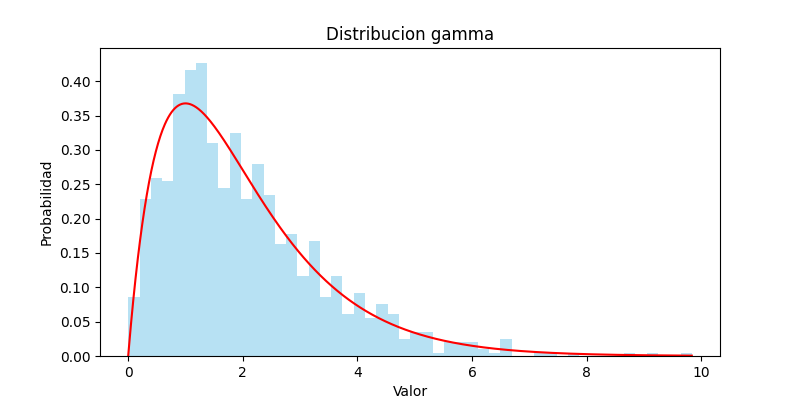
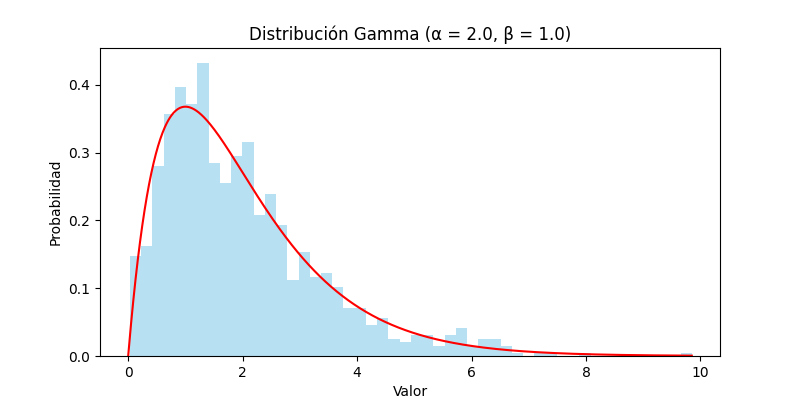
Creo que ya esta terminado

diff --git a/tps/2.2/tp2_2.py b/tps/2.2/tp2_2.py
@@ -3,17 +3,19 @@ import numpy as np
 import scipy.stats as ss
 
 
-
+#DISTRIBUCIONES CONTINUAS
 # Generar numeros pseudoaleatorios con distribucion de probabilidad uniforme
-num_uniformes = np.random.uniform(0,1,1000) #Genera 1000 valores pseudoaleatorios con distribucion uniforme entre 0 y 1
+valor_inicial = 0
+valor_final = 1
+num_uniformes = np.random.uniform(valor_inicial,valor_final,1000) #Genera 1000 valores pseudoaleatorios con distribucion uniforme entre 0 y 1
 #Graficar valores uniformes
 plt.figure(figsize=(8, 4))
 plt.hist(num_uniformes, bins=50, density=True, alpha=0.6, color='skyblue', edgecolor='black', label='Datos simulados')
 # Calculo de probabilidad teorica
 valores_referencia_x = np.linspace(0, 1, 100) # Crea 100 numeros equiespaciados entre 0 y 1
-valores_referencia_y = [1 / (1- 0)] * 100 # Calculado con la funcion de densidad de probabilidad
+valores_referencia_y = [valor_final / (valor_final - valor_inicial)] * 100 # Calculado con la funcion de densidad de probabilidad
 plt.plot(valores_referencia_x, valores_referencia_y, 'r--', linewidth=2, label='Probabilidad teórica')
-plt.title('Distribucion uniforme')
+plt.title(f'Distribución Uniforme continua\n[a={0}, b={1}]')
 plt.xlabel('Valor')
 plt.ylabel('Probabilidad')
 plt.savefig('Grafica_Uniforme.png') 
@@ -26,16 +28,17 @@ plt.show()
 
 
 # Generar numeros pseudoaleatorios con distribucion de probabilidad exponencial (Usando transformada inversa)
+lambd = 1.5 # Valor de LAMBDA
 num_uniformes_para_exponencial = np.random.uniform(0,1,1000) # num_uniformes_para_exponencial ~ U(0,1)
-num_exponenciales = -np.log(1 - num_uniformes_para_exponencial) / 1.5 # 1.5 es el valor de LAMBDA, λ = 1.5
+num_exponenciales = -np.log(1 - num_uniformes_para_exponencial) / lambd # 1.5 es el valor de LAMBDA, λ = 1.5
 # Graficar valores exponenciales
 plt.figure(figsize=(8, 4))
 plt.hist(num_exponenciales, bins=50, density=True, alpha=0.6, color='skyblue', label='Datos simulados')
 # Calculo de probabilidad teorica
 valores_referencia_x = np.linspace(0, np.max(num_exponenciales), 1000) # Crea 1000 numeros equiespaciados entre 0 y el maximo de la exponencial
-valores_referencia_y = 1.5 * np.exp(-1.5 * valores_referencia_x) # 1.5 es el valor de LAMBDA, esto se calcula con la funcion de densidad de probabilidad
+valores_referencia_y = lambd * np.exp(-lambd * valores_referencia_x) # 1.5 es el valor de LAMBDA, esto se calcula con la funcion de densidad de probabilidad
 plt.plot(valores_referencia_x, valores_referencia_y, 'r-', label='Probabilidad teorica')
-plt.title('Distribucion exponencial')
+plt.title('Distribución Exponencial (λ = {})'.format(lambd))
 plt.xlabel('Valor')
 plt.ylabel('Probabilidad')
 plt.savefig('Grafica_Exponencial.png') 
@@ -57,7 +60,7 @@ plt.hist(num_gamma, bins=50, density=True, alpha=0.6, color='skyblue', label='Da
 valores_referencia_x = np.linspace(0, np.max(num_gamma), 1000) # Crea 1000 numeros equiespaciados entre 0 y el maximo de los valors con distrubuccion gamma generados
 valores_referencia_y = ss.gamma.pdf(valores_referencia_x, a=alpha, scale=beta) # Usamos una funcion de la libreria scipy.stats para calcular los valores de y con la funcion de de densidad de probabilidad
 plt.plot(valores_referencia_x, valores_referencia_y , 'r-', label='Probabilidad teorica')
-plt.title('Distribucion gamma')
+plt.title(f'Distribución Gamma (α = {alpha}, β = {beta})')
 plt.xlabel('Valor')
 plt.ylabel('Probabilidad')
 plt.savefig('Grafica_Gamma.png') 
@@ -78,7 +81,7 @@ plt.hist(num_normal, bins=50, density=True, alpha=0.6, color='skyblue', label='D
 valores_referencia_x = np.linspace(mu - 4*sigma, mu + 4*sigma, 1000)  # esto genera 1000 puntos equiespaciados entre mu - 4sigma y mu + 4sigma ya que la mayor parte de la masa de una distribucion normal esta contenida dentro de ese intervalo
 valores_referencia_y = ss.norm.pdf(valores_referencia_x, loc=mu, scale=sigma) # Calculamos los valores de Y usando la libreria scipy stats, esta usa la funcion de densidad de probabilidad
 plt.plot(valores_referencia_x, valores_referencia_y, 'r-', label='Probabilidad Teorica')
-plt.title('Distribucion normal')
+plt.title(f'Distribución Normal (μ = {mu}, σ = {sigma})')
 plt.xlabel('Valor')
 plt.ylabel('Probabilidad')
 plt.savefig('Grafica_Normal.png') 
@@ -88,7 +91,7 @@ plt.tight_layout()
 plt.show()
 
 
-
+# DISTRIBUCIONES DISCRETAS
 # Generar numeros con distribucion de probabilidad pascal (binomial negativa)
 exitos_deseados = 5       # número de éxitos deseados
 probabilidad_exito = 0.3     # probabilidad de éxito
@@ -102,7 +105,7 @@ plt.bar(valores, prob_empirica, width=0.8, alpha=0.6, label="Datos simulados", c
 valores_referencia_x = np.arange(0, max(num_pascal)+1) # Genera los valores que tomo la variable en el grafico de barras en el eje X
 valores_referencia_y = ss.nbinom.pmf(valores_referencia_x, exitos_deseados, probabilidad_exito) # Usanso SS calculamos los valores de Y usando la funcion de densidad de probabilidad
 plt.plot(valores_referencia_x, valores_referencia_y, 'ro', label="Probabilidad Teorica")
-plt.title('Distribucion pascal')
+plt.title(f'Distribución Pascal (r = {exitos_deseados}, p = {probabilidad_exito})')
 plt.xlabel('Valor')
 plt.ylabel('Probabilidad')
 plt.savefig('Grafica_Pascal.png') 
@@ -117,18 +120,95 @@ num_ensayos = 10   # número de ensayos
 prob_exito = 0.4         # probabilidad de éxito
 num_binomial = np.random.binomial(num_ensayos, prob_exito, size=1000) # Genera 1000 valores con distribucion de probabilidad binomial
 # Representacion grafica de los datos
-valores, veces_que_salen = np.unique(num_binomial, return_counts=True) # Esto es para trabajar con datos discretos (ya que la binomial al igual que la pascal trabajan con datos discretos), busca los valores unicos en el array num_pascal y cuenta cuantas veces aparece cada uno, guarda ambos.
+valores, veces_que_salen = np.unique(num_binomial, return_counts=True) # Esto es para trabajar con datos discretos (ya que la binomial al igual que la pascal trabajan con datos discretos), busca los valores unicos en el array num_binomial y cuenta cuantas veces aparece cada uno, guarda ambos.
 prob_empirica = veces_que_salen / 1000  # Esto normaliza los conteos para convertirlos en una probabilidad empirica (lo divide por n muestras)
 plt.figure(figsize=(8, 4))
 plt.bar(valores, prob_empirica, width=0.8, alpha=0.6, label="Datos simulados", color='skyblue')
 # Calculo de probabilidad teorica
 valores_referencia_x = np.arange(0, num_ensayos + 1) # Genera los valores que tomo la variable en el grafico de barras en el eje X
-valores_referencia_y = ss.binom.pmf(valores_referencia_x, num_ensayos, prob_exito) # Usanso SS calculamos los valores de Y usando la funcion de densidad de probabilidad
+valores_referencia_y = ss.binom.pmf(valores_referencia_x, num_ensayos, prob_exito) # Usando SS calculamos los valores de Y usando la funcion de densidad de probabilidad
 plt.plot(valores_referencia_x, valores_referencia_y, 'ro', label="Probabilidad teorica")
-plt.title('Distribucion Binomial')
+plt.title(f'Distribución Binomial (n = {num_ensayos}, p = {prob_exito})')
 plt.xlabel('Valor')
 plt.ylabel('Probabilidad')
 plt.savefig('Grafica_Binomial.png') 
+plt.legend()
+plt.grid(True)
+plt.tight_layout()
+plt.show()
+
+
+
+
+# Generar numeros con distribucion de probabilidad hipergeometrica
+tam_total = 50      # tamaño total de la población
+num_exitos = 15      # número de éxitos en la población
+num_extracciones = 10      # número de extracciones
+num_hipergeometrico = np.random.hypergeometric(ngood=num_exitos, nbad=tam_total-num_exitos, nsample=num_extracciones, size=1000) # Genera 1000 valores con distribucion de probabilidad hipergeometrica
+# Representacion grafica
+valores, veces_que_salen = np.unique(num_hipergeometrico, return_counts=True) # Esto es para trabajar con datos discretos (ya que la hipergeometrica es discreta), busca los valores unicos en el array num_hipergeometrico y cuenta cuantas veces aparece cada uno, guarda ambos.
+prob_empirica = veces_que_salen / 1000 # Esto normaliza los conteos para convertirlos en una probabilidad empirica (lo divide por n muestras)
+plt.figure(figsize=(8, 4))
+plt.bar(valores, prob_empirica, width=0.8, alpha=0.6, label="Datos simulados", color='skyblue')
+# Calculo de probabilidad teorica
+valores_referencia_x = np.arange(0, num_extracciones+1) # Genera los valores que tomo la variable en el grafico de barras en el eje X
+valores_referencia_y = ss.hypergeom.pmf(valores_referencia_x, tam_total, num_exitos, num_extracciones) #Usando SS calculamos los valores de Y usando la funcion de densidad de probabilidad
+plt.plot(valores_referencia_x, valores_referencia_y, 'ro', label='Probabilidad Teorica')
+plt.title(f'Distribución Hipergeométrica (N={tam_total}, K={num_exitos}, n={num_extracciones})')
+plt.xlabel('Valor')
+plt.ylabel('Probabilidad')
+plt.savefig('Grafica_Hipergeometrica.png') 
+plt.legend()
+plt.grid(True)
+plt.tight_layout()
+plt.show()
+
+
+
+# Generar numeros con distribucion de probabilidad Poisson
+lambd = 4 # Tasa de eventos, valor de LAMBDA
+num_poisson = np.random.poisson(lam=lambd, size=1000) # Genera 1000 valores con distribucion de poisson
+# Representacion grafica
+valores, veces_que_salen = np.unique(num_poisson, return_counts=True) # Esto es para trabajar con datos discretos (ya que la Poisson es discreta), busca los valores unicos en el array num_poisson y cuenta cuantas veces aparece cada uno, guarda ambos.
+prob_empirica = veces_que_salen / 1000
+plt.figure(figsize=(8, 4))
+plt.bar(valores, prob_empirica, width=0.8, alpha=0.6, label='Datos simulados', color='skyblue')
+# Calculo de probabilidad teorica
+valores_referencia_x = np.arange(0, max(num_poisson)+1) # Genera los valores que tomo la variable en el grafico de barras en el eje X
+valores_referencia_y = ss.poisson.pmf(valores_referencia_x, mu=lambd) #Usando SS calculamos los valores de Y usando la funcion de densidad de probabilidad
+plt.plot(valores_referencia_x, valores_referencia_y, 'ro', label='PMF teórica')
+plt.title(f'Distribución de Poisson (λ={lambd})')
+plt.xlabel('Valor')
+plt.ylabel('Probabilidad')
+plt.savefig('Grafica_Poisson.png') 
+plt.legend()
+plt.grid(True)
+plt.tight_layout()
+plt.show()
+
+
+
+# Generar numeros con distribucion de probabilidad empirica discreta
+# Primero vamos a generar 15 valores de forma aleatoria entre 0 y 10 ya que la distribucion empirica discreta se contruye a partir de un conjunto de datos objservados
+datos_observados = np.random.uniform(0,10,15)
+# Obtener valores y frecuencias de los datos observados
+valores, veces_que_salen = np.unique(datos_observados, return_counts=True)
+probabilidades = veces_que_salen / sum(veces_que_salen)
+# Simular nuevos valores empiricos
+num_empiricos = np.random.choice(valores, size=1000, p=probabilidades)
+# Representacion grafica
+valores_sim, veces_que_salen_sim = np.unique(num_empiricos, return_counts=True)
+prob_empirica = veces_que_salen_sim / 1000
+plt.figure(figsize=(8, 4))
+plt.bar(valores_sim, prob_empirica, width=0.8, alpha=0.6, label='Datos simulados', color='skyblue')
+# Valores teoricos
+plt.figure(figsize=(8, 4))
+plt.bar(valores_sim, prob_empirica, width=0.8, alpha=0.7, color='orange', label='Simulada')
+plt.plot(valores, probabilidades, 'ro', label='Original (observada)')
+plt.title('Distribución Empírica Discreta')
+plt.xlabel('Valor')
+plt.ylabel('Probabilidad')
+plt.savefig('Grafica_Empirica_Discreta.png') 
 plt.legend()
 plt.grid(True)
 plt.tight_layout()
